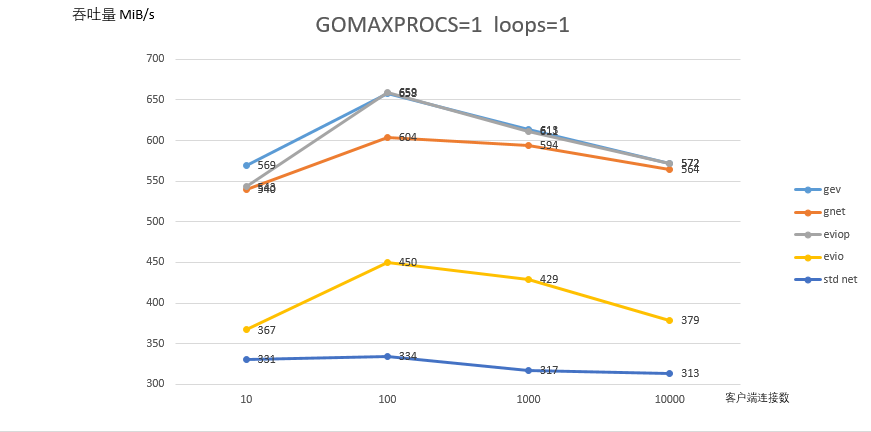
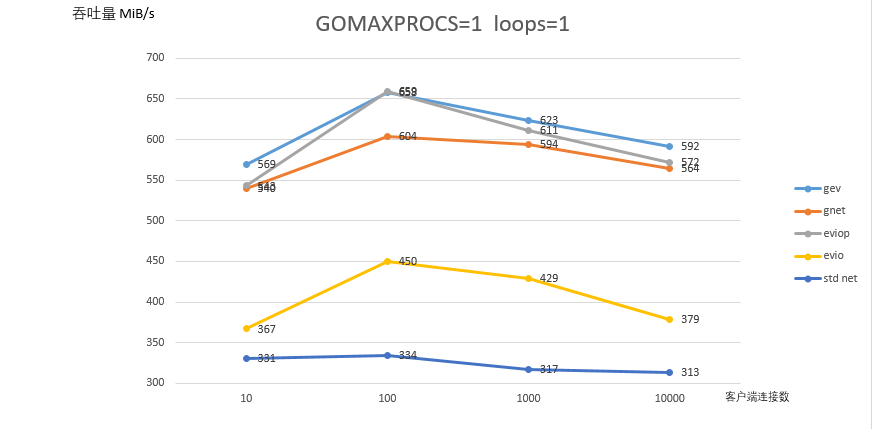
readme 增加吞吐量测试数据

diff --git a/README.md b/README.md
@@ -26,6 +26,21 @@
 
 > 测试环境 Ubuntu18.04
 
+### 吞吐量测试
+
+限制 GOMAXPROCS=1（单线程），1 个 work 协程
+
+![image](benchmarks/out/gev11.png)
+
+限制 GOMAXPROCS=4，4 个 work 协程
+
+![image](benchmarks/out/gev44.png)
+
+### 其他测试
+
+<details>
+  <summary> 速度测试 </summary>
+
 和同类库的简单性能比较, 压测方式与 evio 项目相同。
 
 - gnet
@@ -44,6 +59,8 @@
 限制 GOMAXPROCS=4，4 个 work 协程
 
 ![image](benchmarks/out/echo-4c-4loops.png)
+
+</details>
 
 ## 安装
 
